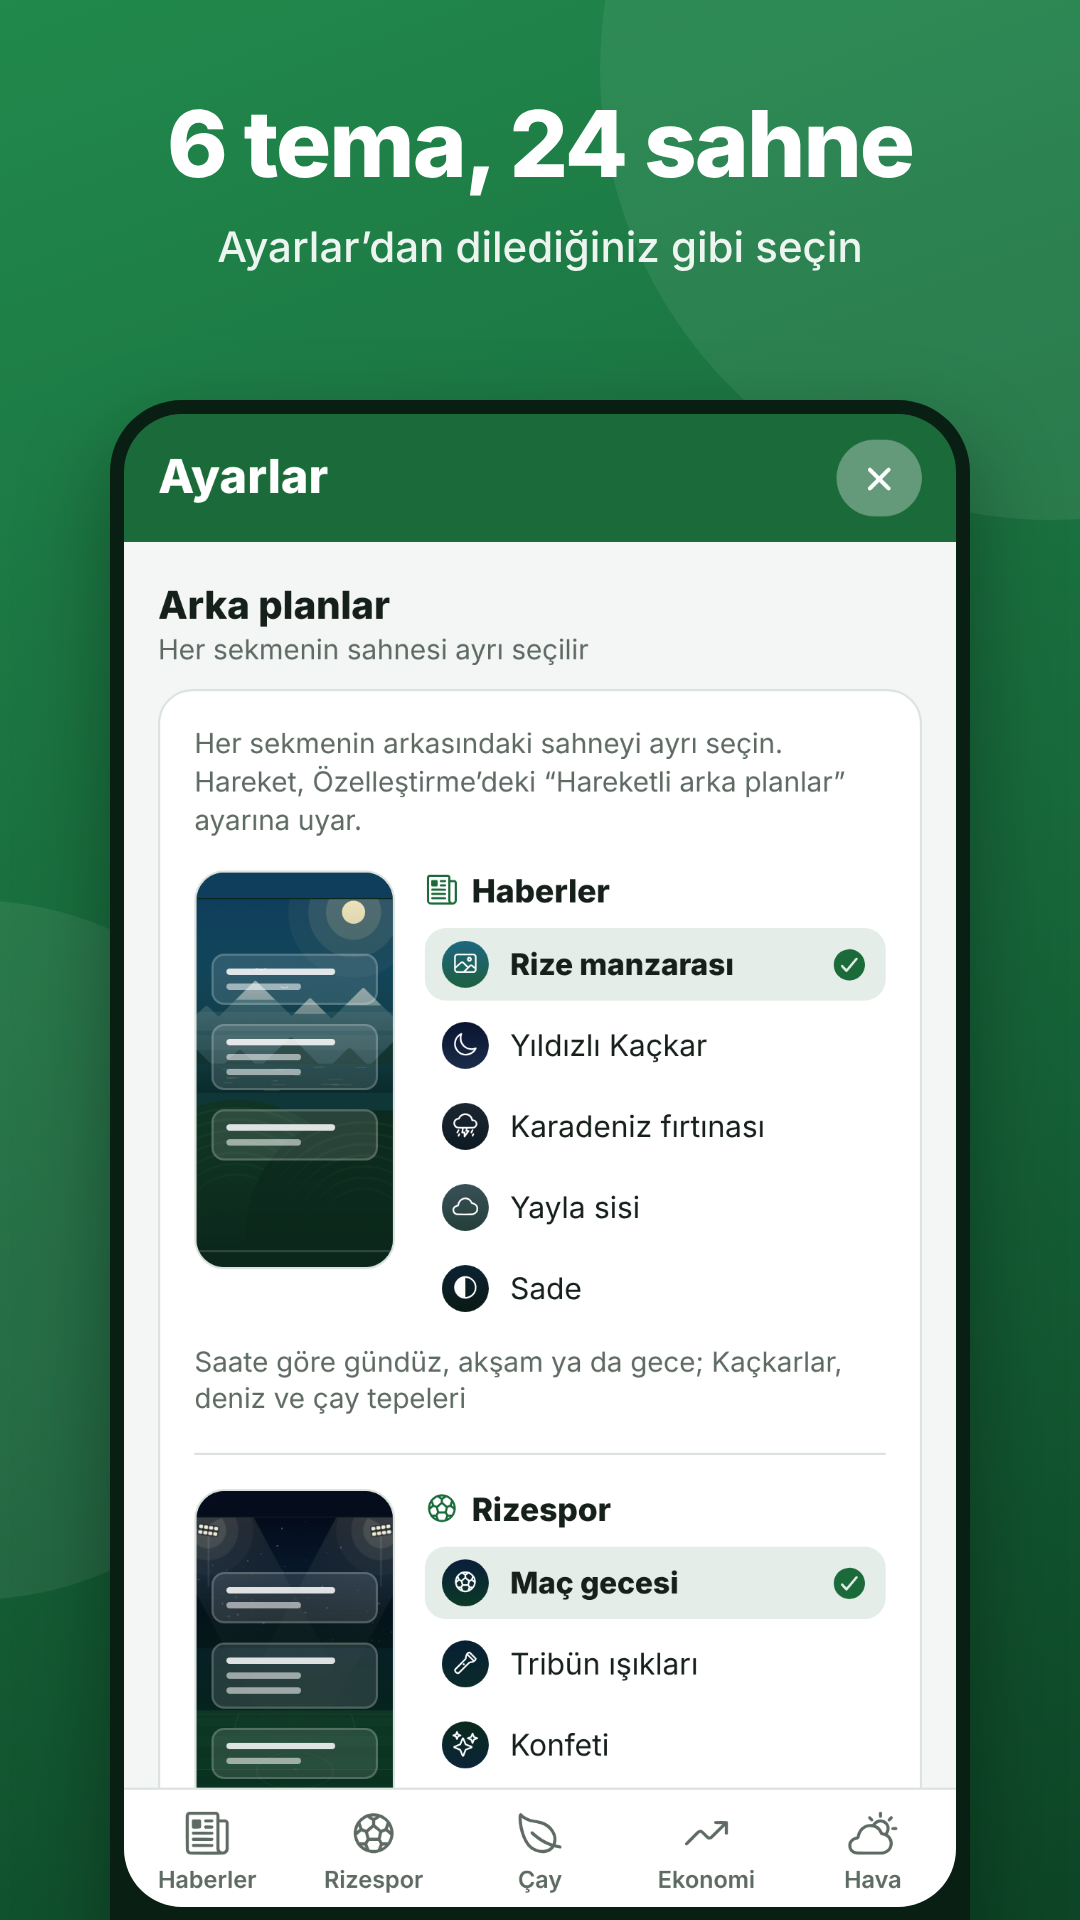
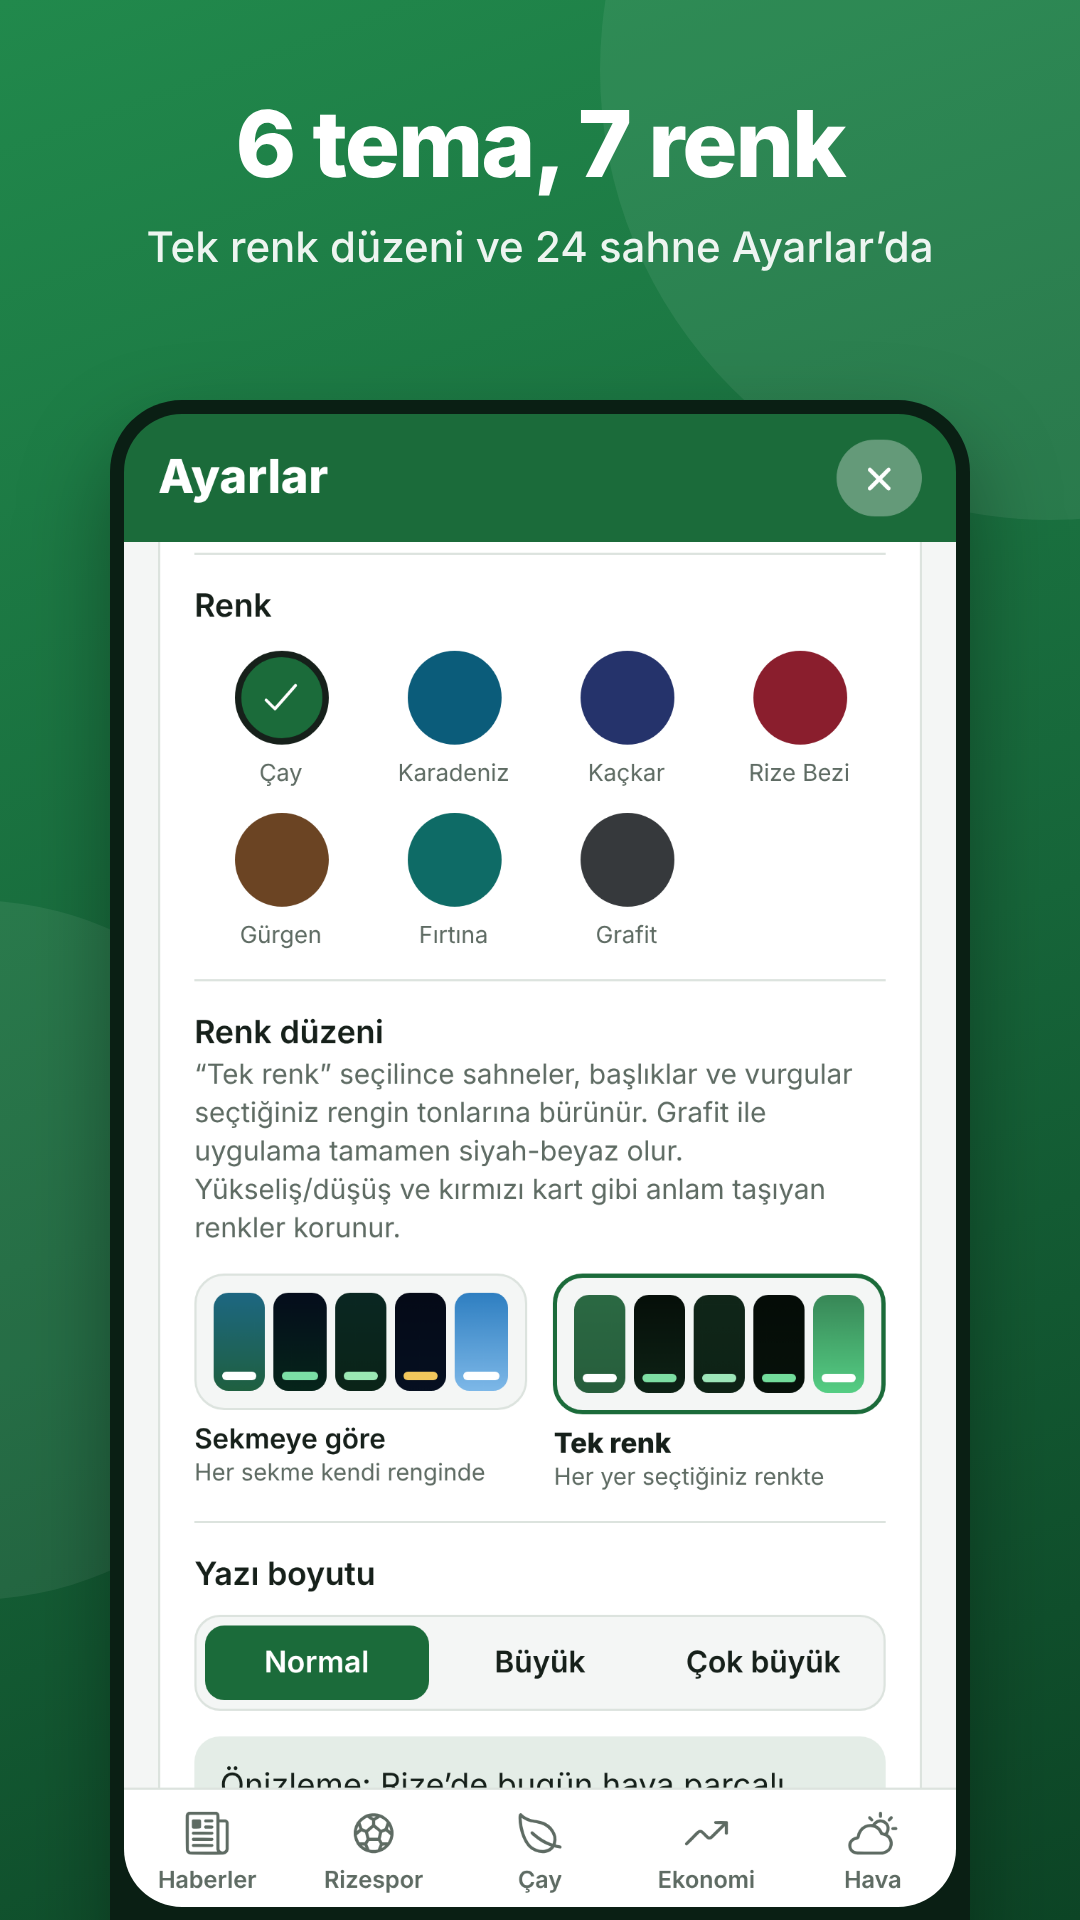
Mağaza: Ayarlar ekran görüntüsü 1.18 (7 renk, tek renk düzeni)
Claude-Session: https://claude.ai/code/session_01AQcUFN2GfU8Xts2FRf9Zze

Changed region(s): [[0.1528, 0.3125, 0.825, 0.9375], [0.1528, 0.0312, 0.8556, 0.1562]]

diff --git a/rize-haber/store/MAGAZA.md b/rize-haber/store/MAGAZA.md
@@ -6,7 +6,7 @@ Bu klasör Play Console’a girilecek her şeyi içerir. Sırayla ilerleyin; her
 |---|---|
 | `uygulama-simgesi-512.png` | Mağaza simgesi (512×512) |
 | `one-cikan-gorsel-1024x500.png` | Öne çıkan görsel |
-| `ekran-goruntuleri/01…08.png` | Telefon ekran görüntüleri (1080×1920, 8 adet; 1.17 arayüzü) |
+| `ekran-goruntuleri/01…08.png` | Telefon ekran görüntüleri (1080×1920, 8 adet; 01–07 1.17, 08 1.18 arayüzü — 01–07’nin görünümü 1.18’de değişmedi) |
 | `ACIKLAMA.txt` | Tam açıklama (kopyala-yapıştır) |
 | `SURUM-NOTLARI.txt` | “Bu sürümdeki yenilikler” |
 
@@ -61,7 +61,7 @@ Tavsiye: güvenlik payı için **15–20 kişi** davet edin.
 |---|---|
 | Uygulama adı (en fazla 30) | `Rize Haber` |
 | Kısa açıklama (en fazla 80) | `Rize’nin haberleri, yaş çay fiyatı, Rizespor, döviz-altın ve hava durumu.` (73 karakter) |
-| Tam açıklama (en fazla 4000) | `ACIKLAMA.txt` dosyasının tamamı (2.836 karakter) |
+| Tam açıklama (en fazla 4000) | `ACIKLAMA.txt` dosyasının tamamı (2.927 karakter) |
 | Uygulama simgesi | `uygulama-simgesi-512.png` |
 | Öne çıkan görsel | `one-cikan-gorsel-1024x500.png` |
 | Telefon ekran görüntüleri | `ekran-goruntuleri/` içindeki 8 dosya, numara sırasıyla |
